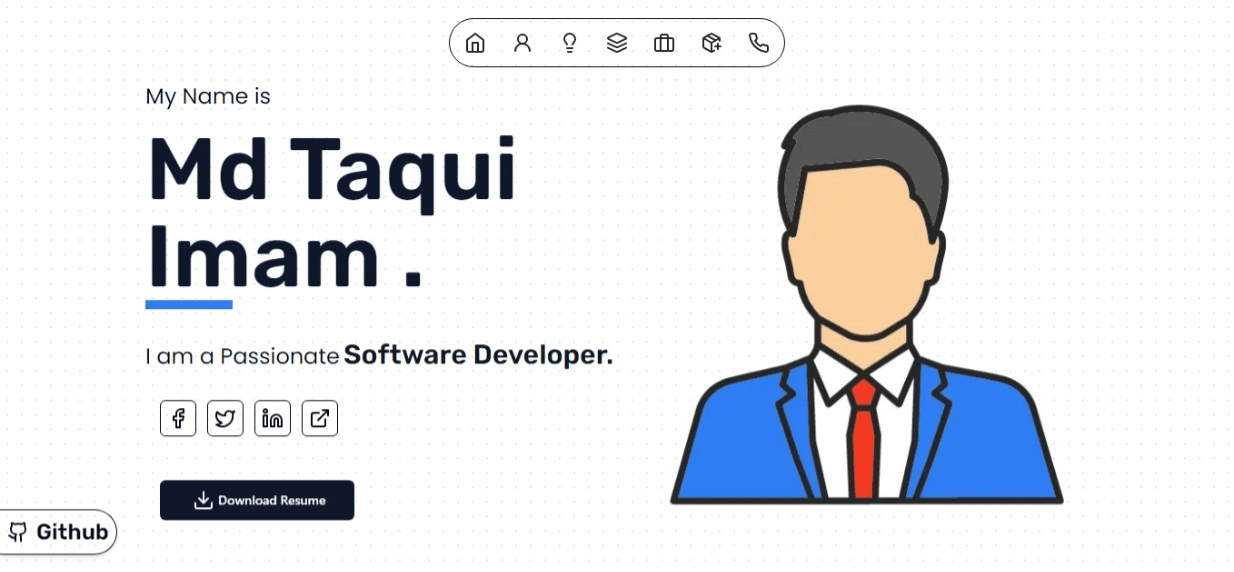
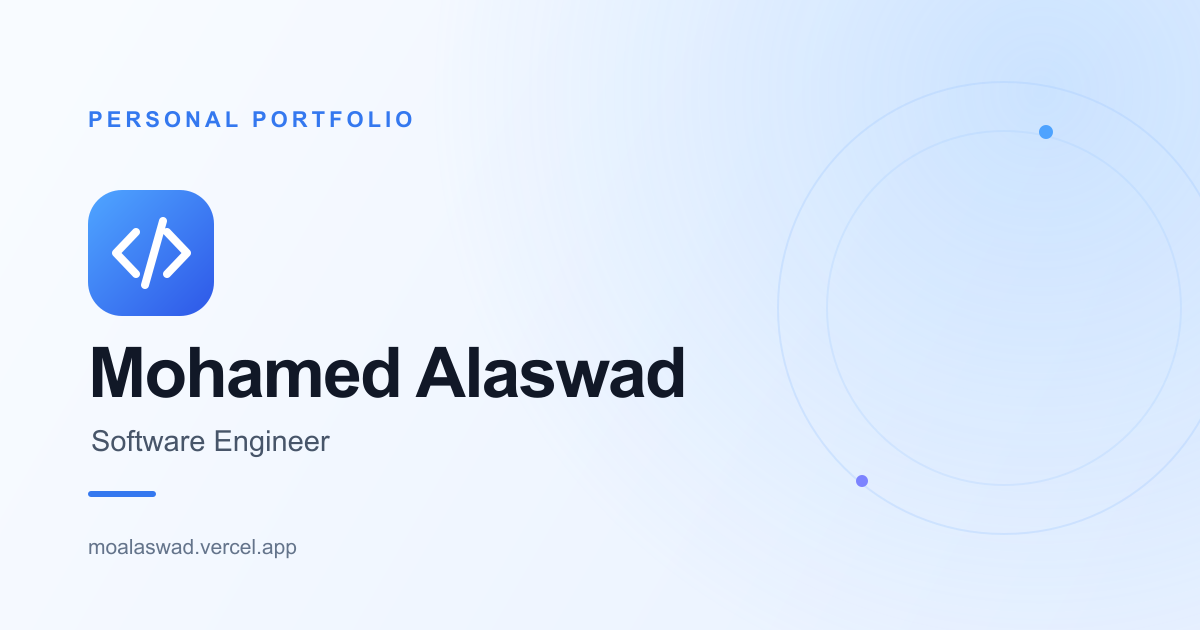
Fix portfolio share metadata and preview image

diff --git a/src/config/portfolio.config.ts b/src/config/portfolio.config.ts
@@ -2,8 +2,9 @@ export const portfolioConfig = {
   // Basic Information
   name: "Mohamed Alaswad",
   title: "Software Engineer",
-  description: "I am a Passionate Software Developer",
-  location: "Ramgarh cantt, Jharkhand, India",
+  description:
+    "Software Engineer and master's student in Information Technology based in Tripoli, Libya.",
+  location: "Tripoli, Libya",
 
   // Contact Information
   email: "moeomar686@gmail.com",
@@ -19,42 +20,24 @@ export const portfolioConfig = {
 
   // SEO Information
   seo: {
-    ogImage: "https://mdtaquiimam.vercel.app/og-image.png",
-    url: "https://mdtaquiimam.vercel.app",
+    ogImage: "/og-image.png",
+    url: "https://moalaswad.vercel.app",
     telegramHandle: "@Melaswed",
     keywords: [
-      "md",
-      "taqui",
-      "imam",
-      "Md",
-      "MD",
-      "TAQUI",
-      "Taqui",
-      "Imam",
-      "Imam",
-      "Md Taqui Imam",
-      "md taqui imam",
-      "mdtaqui",
-      "mdtaquiimam",
-      "taqui imam",
-      "Taqui Imam",
-      "Taquiimam",
+      "Mohamed Alaswad",
+      "Mohamed Alaswad portfolio",
+      "Software Engineer",
+      "Web Developer",
+      "Flutter Developer",
+      "Information Technology",
+      "Tripoli Libya",
       "portfolio",
       "web developer",
-      "web",
-      "web dev",
-      "developer",
-      "PROGRAMMER ",
-      "programmer ",
-      "MD TAQUI IMAM ",
-      "website",
-      "@Taquiimam",
-      "Taquiimam",
-      "taqui developer",
+      "software developer",
     ],
     authors: [
       {
-        name: "Taqui Imam",
+        name: "Mohamed Alaswad",
         url: "https://github.com/moalaswed",
       },
     ],

diff --git a/src/app/layout.tsx b/src/app/layout.tsx
@@ -35,14 +35,14 @@ export const metadata: Metadata = {
     url: portfolioConfig.seo.url,
     title: portfolioConfig.name,
     description: portfolioConfig.description,
-    images: [`${portfolioConfig.seo.url}/og-image.png`],
+    images: [portfolioConfig.seo.ogImage],
     siteName: portfolioConfig.name,
   },
   twitter: {
     card: "summary_large_image",
     title: portfolioConfig.name,
     description: portfolioConfig.description,
-    images: [`${portfolioConfig.seo.url}/og-image.png`],
+    images: [portfolioConfig.seo.ogImage],
     creator: portfolioConfig.seo.telegramHandle,
   },
   icons: {
